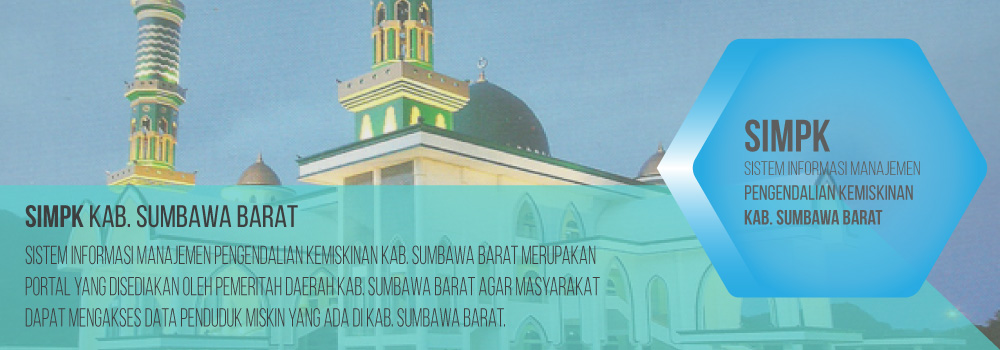
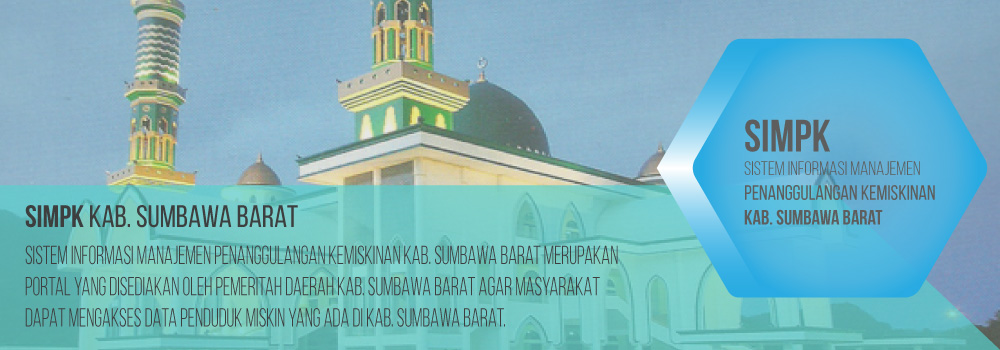
Perbaikan SIMPK kata Pengendalian diganti Penanggulangan dropdown tahun batas awal 2014 pengisian data penduduk miskin semua kecamatan pada tahun 2015

Changed region(s): [[0.217, 0.6857, 0.62, 0.7714], [0.744, 0.5143, 0.961, 0.5714]]

diff --git a/application/views/beranda/content/welcome.php b/application/views/beranda/content/welcome.php
@@ -8,7 +8,7 @@
 <h3><img src="<?php echo base_url('assets/img/ksb.png'); ?>" width="50px" height="auto">
 Selamat datang di SIMPK Kab. Sumbawa Barat</h3>
 <hr>
-Aplikasi SIMPK (Sistem Informasi Manajemen Pengendalian Kemiskinan) Kab. Sumbawa Barat merupakan aplikasi yang dikelola oleh Pemerintah Kabupaten Sumbawa Barat yang dimana berfunsi sebagai media publikasi data masyarakat miskin dikabupaten Sumbawa barat serta perbandingannya dengan Kabupaten-kabupaten lain yang berada di Provinsi Nusa Tenggara Barat.
+Aplikasi SIMPK (Sistem Informasi Manajemen Penanggulangan Kemiskinan) Kab. Sumbawa Barat merupakan aplikasi yang dikelola oleh Pemerintah Kabupaten Sumbawa Barat yang dimana berfungsi sebagai media publikasi data masyarakat miskin di Kabupaten Sumbawa Barat serta perbandingannya dengan Kabupaten-kabupaten lain yang berada di Provinsi Nusa Tenggara Barat.
 <br>
 <br>
 Aplikasi SIMPK ini dibangun pada tahun 2016. dan terdiri dari beberapa menu yaitu <b> Pivot</b>, <b> Profil Daerah</b>, <b>Profil Program</b>, <b>Datamart</b>, <b>Grafik</b>, <b>Foto Kegiatan </b> 

diff --git a/application/modules/login/views/login_view.php b/application/modules/login/views/login_view.php
@@ -6,7 +6,7 @@
         <meta charset="utf-8">
         <meta http-equiv="X-UA-Compatible" content="IE=edge">
         <meta name="viewport" content="width=device-width, initial-scale=1">
-        <title>Sistem Informasi Pengentasan Kemiskinan</title>
+        <title>Sistem Informasi Penanggulangan Kemiskinan</title>
 
         <!-- CSS -->
         <link rel="stylesheet" href="http://fonts.googleapis.com/css?family=Roboto:400,100,300,500">
@@ -80,7 +80,7 @@
                         <div class="col-sm-8 col-sm-offset-2 text">
                             <h1><strong>SIMPK </strong> Kab. Sumbawa Barat</h1>
                             <div class="description">
-                              <p>Sistem Informasi Manajemen Pengentasan Kemiskinan Kab. Sumbawa Barat</p>
+                              <p>Sistem Informasi Manajemen Penanggulangan Kemiskinan Kab. Sumbawa Barat</p>
                             </div>
                         </div>
                     </div>

diff --git a/application/views/beranda/content/pivot.php b/application/views/beranda/content/pivot.php
@@ -54,14 +54,14 @@ $(function () {
 				<div class="form-group">
 					<select class="form-control" name="tahun1" id="tahun1">
 						<option value="">- Pilih Tahun -</option>
-						<?php for($x=date('Y'); $x>=2000; $x--) { ?>
+						<?php for($x=date('Y'); $x>=2014; $x--) { ?>
 							<option value="<?php echo $x; ?>"><?php echo $x; ?></option>
 						<?php } ?>
 					</select>
 					Sampai
 					<select class="form-control" name="tahun2" id="tahun2">
 						<option value="">- Pilih Tahun -</option>
-						<?php for($x=date('Y'); $x>=2000; $x--) { ?>
+						<?php for($x=date('Y'); $x>=2014; $x--) { ?>
 							<option value="<?php echo $x; ?>"><?php echo $x; ?></option>
 						<?php } ?>
 					</select>

diff --git a/application/views/beranda/content/pivot_kec.php b/application/views/beranda/content/pivot_kec.php
@@ -49,14 +49,14 @@ $(function () {
 				<div class="form-group">
 					<select class="form-control" name="tahun1" id="tahun1">
 						<option value="">- Pilih Tahun -</option>
-						<?php for($x=date('Y'); $x>=2000; $x--) { ?>
+						<?php for($x=date('Y'); $x>=2014; $x--) { ?>
 							<option value="<?php echo $x; ?>"><?php echo $x; ?></option>
 						<?php } ?>
 					</select>
 					Sampai
 					<select class="form-control" name="tahun2" id="tahun2">
 						<option value="">- Pilih Tahun -</option>
-						<?php for($x=date('Y'); $x>=2000; $x--) { ?>
+						<?php for($x=date('Y'); $x>=2014; $x--) { ?>
 							<option value="<?php echo $x; ?>"><?php echo $x; ?></option>
 						<?php } ?>
 					</select>

diff --git a/application/modules/program/views/program_form_view.php b/application/modules/program/views/program_form_view.php
@@ -68,7 +68,7 @@
       <div class="col-sm-9">
 		<select class="form-control input-style select2" name="tahun" id="tahun">
 			<option selected value="0"> - Tahun - </option>
-			<?php for($x=date("Y"); $x>=2000; $x--) { ?>
+			<?php for($x=date("Y"); $x>=2014; $x--) { ?>
 		
 				<option <?php if(isset($tahun)) echo $x==$tahun?'selected':''; ?> value="<?php echo $x; ?>"><?php echo $x; ?></option>
 		

diff --git a/application/views/beranda/content/grafik.php b/application/views/beranda/content/grafik.php
@@ -40,7 +40,7 @@ $(function () {
 	<div class="input-group" style="margin-top: -7px; margin-bottom: -7px">
 		<select class="form-control" name="tahun" id="tahun">
 			<option value="">- Pilih Tahun -</option>
-			<?php for($x=date('Y'); $x>=2000; $x--) { ?>
+			<?php for($x=date('Y'); $x>=2014; $x--) { ?>
 				<option value="<?php echo $x; ?>"><?php echo $x; ?></option>
 			<?php } ?>
 		</select>

diff --git a/application/modules/program/views/program_view.php b/application/modules/program/views/program_view.php
@@ -48,7 +48,7 @@
                 <label for="program">Tahun</label>
 				<select class="form-control input-style select2" name="tahun" id="tahun">
 					<option selected value="0"> - Tahun - </option>
-						<?php for($x=date("Y"); $x>=2000; $x--) { ?>
+						<?php for($x=date("Y"); $x>=2014; $x--) { ?>
 					
 						<option value="<?php echo $x; ?>"><?php echo $x; ?></option>
 					

diff --git a/application/modules/admin_add_data_miskin_kab/views/view.php b/application/modules/admin_add_data_miskin_kab/views/view.php
@@ -36,7 +36,7 @@
                 <label for="nama">Tahun</label>
 				<select class="form-control input-style select2" name="tahun" id="tahun">
 					<option selected value="0"> - Tahun - </option>
-						<?php for($x=date("Y"); $x>=2000; $x--) { ?>
+						<?php for($x=date("Y"); $x>=2014; $x--) { ?>
 					
 						<option value="<?php echo $x; ?>"><?php echo $x; ?></option>
 					

diff --git a/application/modules/admin_add_garis_miskin_kab/views/view.php b/application/modules/admin_add_garis_miskin_kab/views/view.php
@@ -36,7 +36,7 @@
                 <label for="nama">Tahun</label>
 				<select class="form-control input-style select2" name="tahun" id="tahun">
 					<option selected value="0"> - Tahun - </option>
-						<?php for($x=date("Y"); $x>=2000; $x--) { ?>
+						<?php for($x=date("Y"); $x>=2014; $x--) { ?>
 					
 						<option value="<?php echo $x; ?>"><?php echo $x; ?></option>
 					

diff --git a/application/modules/admin_add_penduduk_miskin/views/view.php b/application/modules/admin_add_penduduk_miskin/views/view.php
@@ -30,7 +30,7 @@
                 <label for="nama">Tahun</label>
 				<select class="form-control input-style select2" name="tahun" id="tahun">
 					<option selected value="0"> - Tahun - </option>
-						<?php for($x=date("Y"); $x>=2000; $x--) { ?>
+						<?php for($x=date("Y"); $x>=2014; $x--) { ?>
 					
 						<option value="<?php echo $x; ?>"><?php echo $x; ?></option>
 					

diff --git a/application/views/beranda/content/klaster.php b/application/views/beranda/content/klaster.php
@@ -35,7 +35,7 @@ $(function () {
 				<div class="form-group">
 					<select class="form-control" name="tahun" id="tahun">
 						<option value="">- Pilih Tahun -</option>
-						<?php for($x=date('Y'); $x>=2000; $x--) { ?>
+						<?php for($x=date('Y'); $x>=2014; $x--) { ?>
 							<option value="<?php echo $x; ?>"><?php echo $x; ?></option>
 						<?php } ?>
 					</select>

diff --git a/application/views/beranda/beranda_view.php b/application/views/beranda/beranda_view.php
@@ -199,7 +199,7 @@ $(function () {
 		<div class="col-md-7 col-md-offset-6">
 			<select class="form-control" id="tahundonat">
 				<option value=""> - Pilih Tahun - </option>
-				<?php for($x=date('Y'); $x>=2000; $x--) { ?>
+				<?php for($x=date('Y'); $x>=2014; $x--) { ?>
 					<option value="<?php echo $x; ?>"><?php echo $x; ?></option>
 				<?php } ?>
 			</select>
